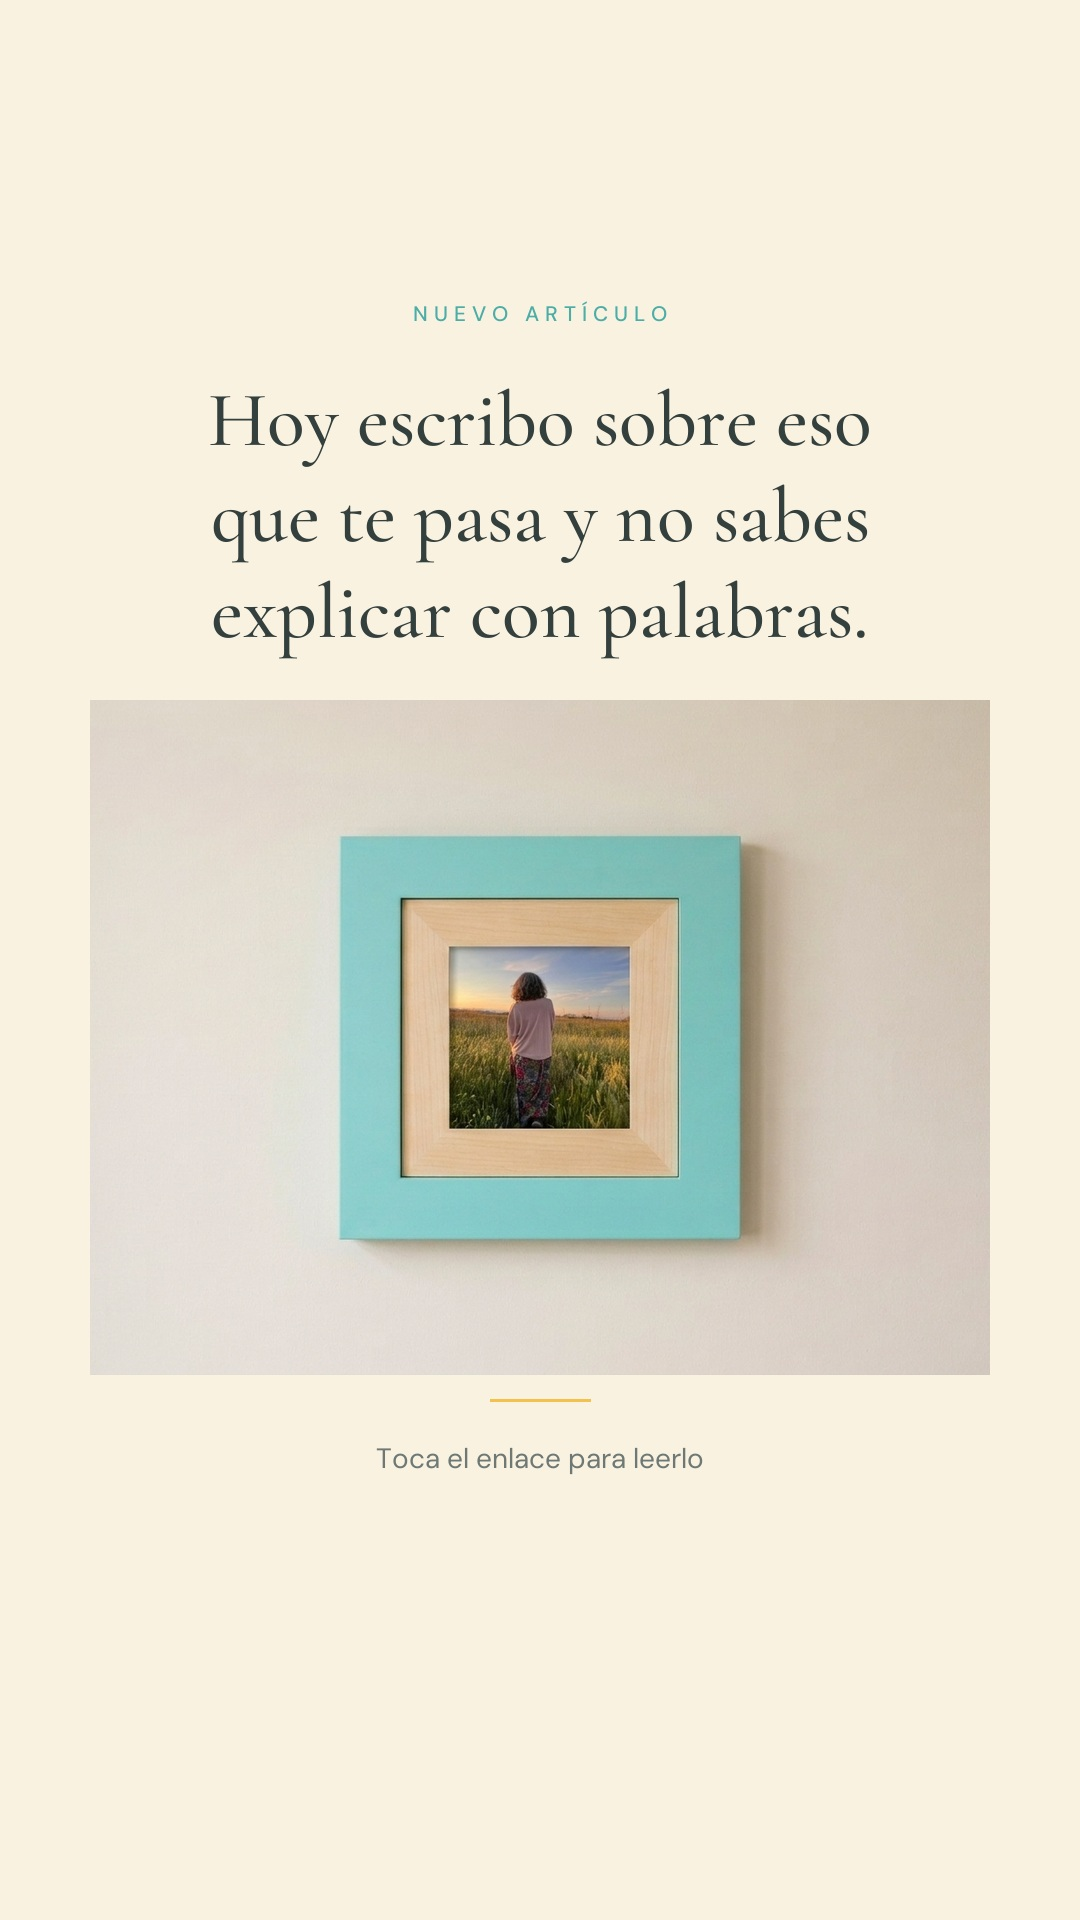
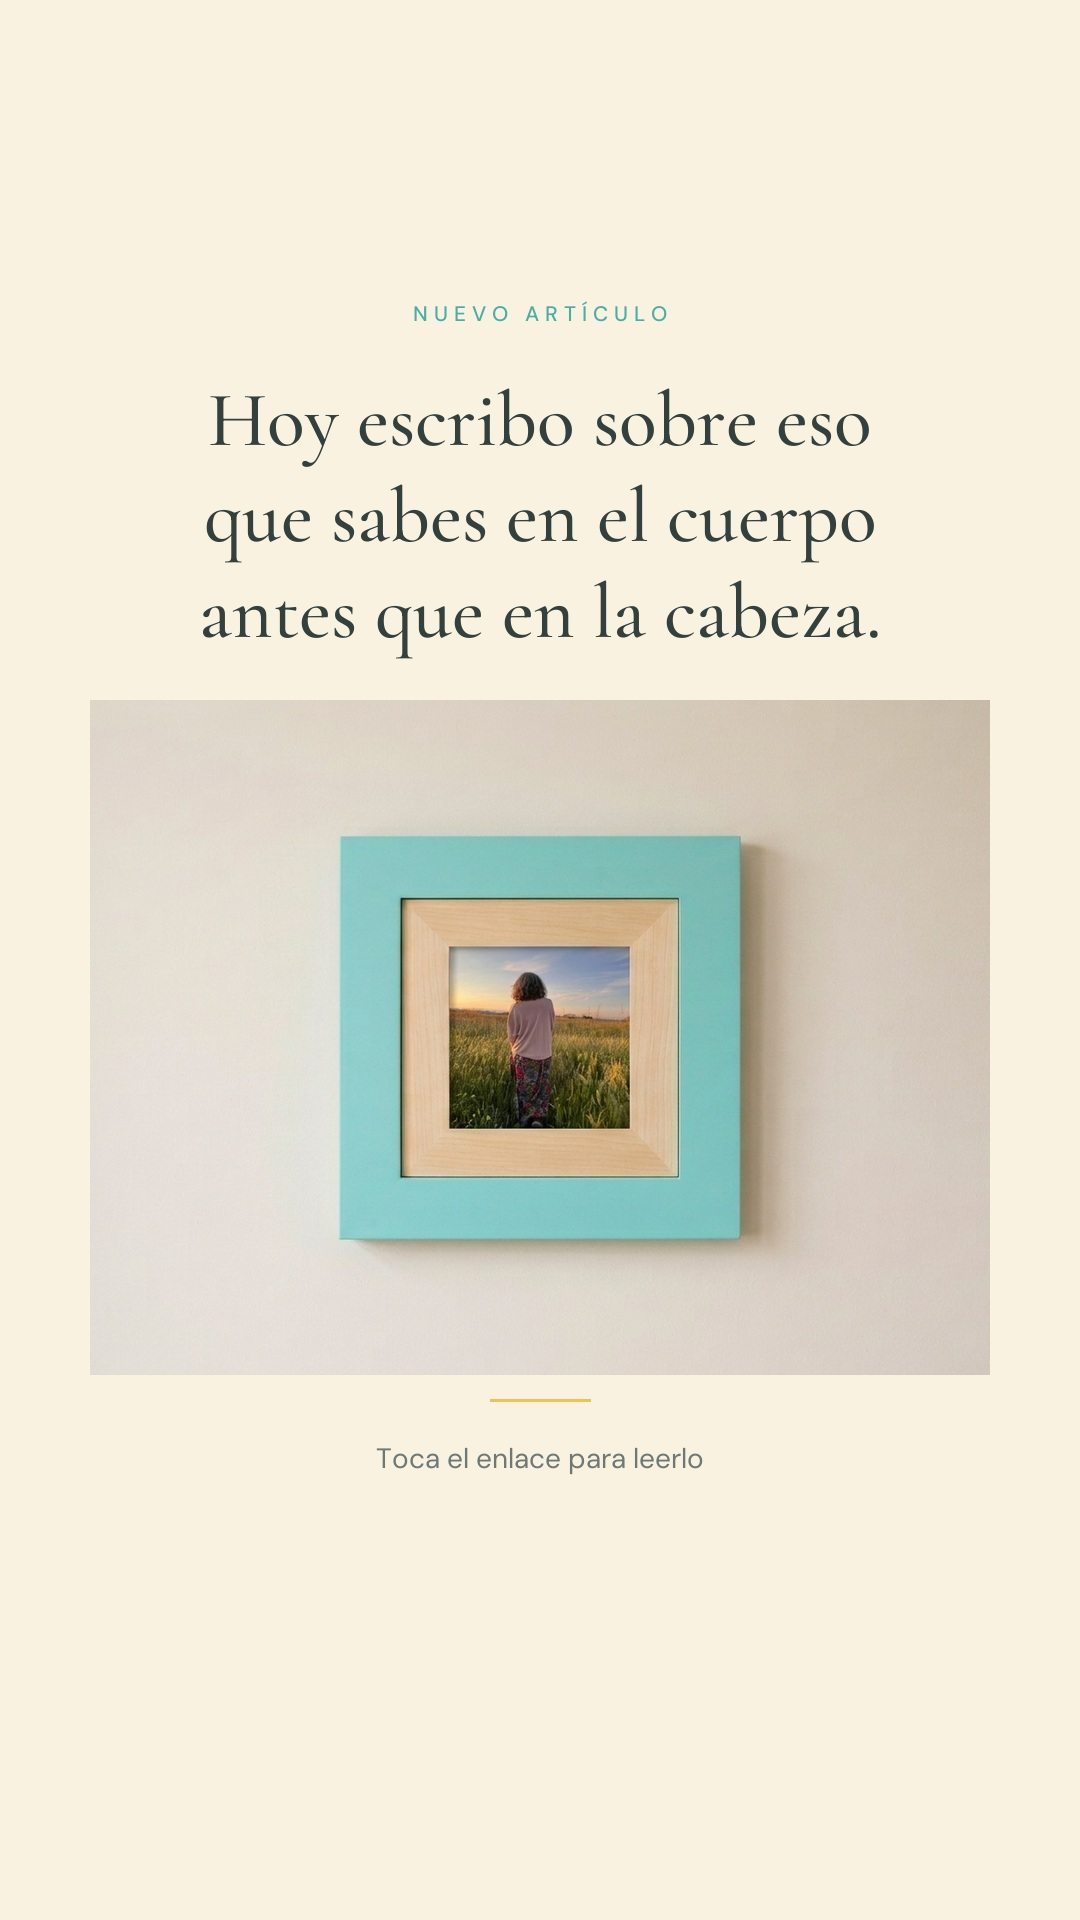
Otra frase para la story y otro pie para el feed
La story decía «eso que te pasa», como si fuera algo que le ocurre a
ella. No lo es: es lo que sabe en el cuerpo antes que en la cabeza.

El pie del feed abría con la escena de la consulta, que es la misma que
abre la nota de Substack y la story del miércoles. Sale una sola vez;
el feed va ahora por la antena y por que la intuición no es magia.

Claude-Session: https://claude.ai/code/session_01UWb9VbeXjcbYu6AESBTY8C

Changed region(s): [[0.1833, 0.25, 0.825, 0.3438]]

diff --git a/funnel/anuncio-sexto-sentido-LISTO.md b/funnel/anuncio-sexto-sentido-LISTO.md
@@ -27,8 +27,8 @@ Para tenerlas en el móvil, mándatelas por WhatsApp a ti misma o por AirDrop.
 
 ## 1 · Story del martes, a las 15:00 (la que más lee)
 
-Imagen: **`2-story-martes-9x16.jpg`**. Ya lleva el texto puesto («Hoy escribo sobre eso que te pasa
-y no sabes explicar con palabras») y el hueco de abajo libre. No hace falta escribir nada encima.
+Imagen: **`2-story-martes-9x16.jpg`**. Ya lleva el texto puesto («Hoy escribo sobre eso que sabes en
+el cuerpo antes que en la cabeza») y el hueco de abajo libre. No hace falta escribir nada encima.
 
 **Sticker:** enlace, con la etiqueta **«Leer el artículo»**, apuntando al enlace limpio.
 El sticker de enlace es lo único que lleva tráfico el mismo día. El enlace en bio no hace eso.
@@ -41,13 +41,15 @@ Imagen: **`1-feed-4x5.jpg`**.
 
 Pie:
 
-Hay una frase que oigo mucho en la consulta: «no sé decirte qué le pasa; está comiendo, no tiene fiebre, pero algo no va bien».
+Lo que sale de fábrica con la maternidad no es un manual. Es una antena, parabólica diría yo.
 
-Nunca la descarto.
+Y no tiene nada de magia. La intuición es la lectura rápida que hace tu cuerpo de un montón de información que tu cabeza todavía no ha ordenado: ha visto el gesto, el tono, cómo respira, el color de la cara, y ha sumado antes de que tú te enteres de que estabas sumando.
 
-Treinta años de pediatra me han enseñado que esa madre no trae ningún dato. Trae algo mucho mejor: cientos de días mirando a ese niño y una alarma que se le enciende en el cuerpo antes que en la cabeza.
+Por eso las madres tenemos un sexto sentido. No porque seamos brujas —o sí—, sino porque nadie ha mirado a ese niño tantas horas como tú, y no solo con los dos ojos que llevamos en la cara.
 
-Hoy he publicado un artículo sobre eso. Sobre por qué las madres tenemos un sexto sentido, por qué habla en el cuerpo antes que en palabras, y qué tiene que ver la respiración con volver a oírlo. Al final te dejo tres prácticas pequeñas para empezar.
+El problema es que la intuición susurra, y el modo hacer suele estar gritando. Con la azada en la mano no oyes nada que no sea la lista de tareas.
+
+Hoy publico un artículo sobre eso: por qué esa antena habla en el cuerpo antes que en palabras, y qué tiene que ver la respiración con volver a oírla. Al final te dejo tres prácticas pequeñas.
 
 Lo tienes en el enlace de la bio.
 
@@ -99,7 +101,10 @@ Hoy escribo sobre el sexto sentido de las madres 👇
 | 15:15 | Instagram | Publicación de feed con `1-feed-4x5.jpg` |
 | 15:30 | Substack Notes | La nota |
 | Por la tarde | WhatsApp | Los mensajes, de uno en uno, no en difusión |
-| Miércoles mañana | Instagram | Segunda story con la frase de la consulta |
+| Miércoles mañana | Instagram | Segunda story `3-story-miercoles-9x16.jpg` |
+
+**La escena de la consulta sale una sola vez.** Está en la nota de Substack y en la story del
+miércoles, no en el pie del feed: si se repite tres veces el mismo día, la tercera ya no se lee.
 
 **El retiro no se menciona aquí.** Ya está dentro del artículo, al final. Si además lo anuncias en
 el mismo story, el mensaje se convierte en promoción y la lectura cae.
